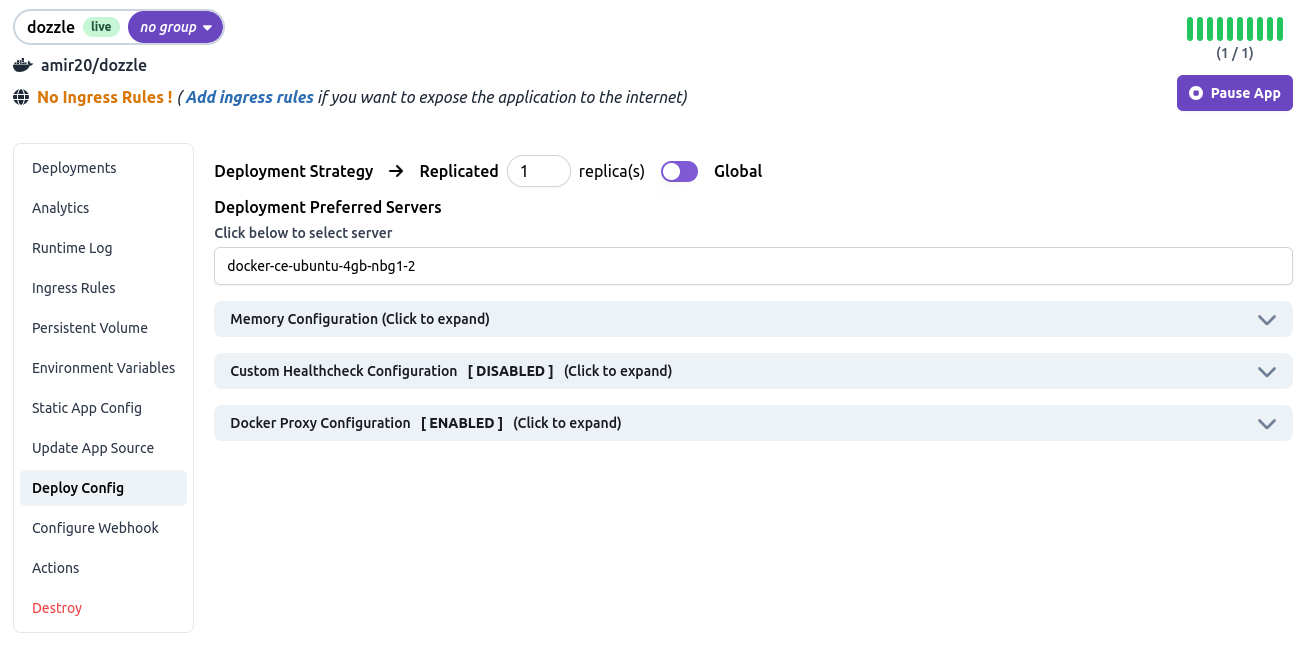
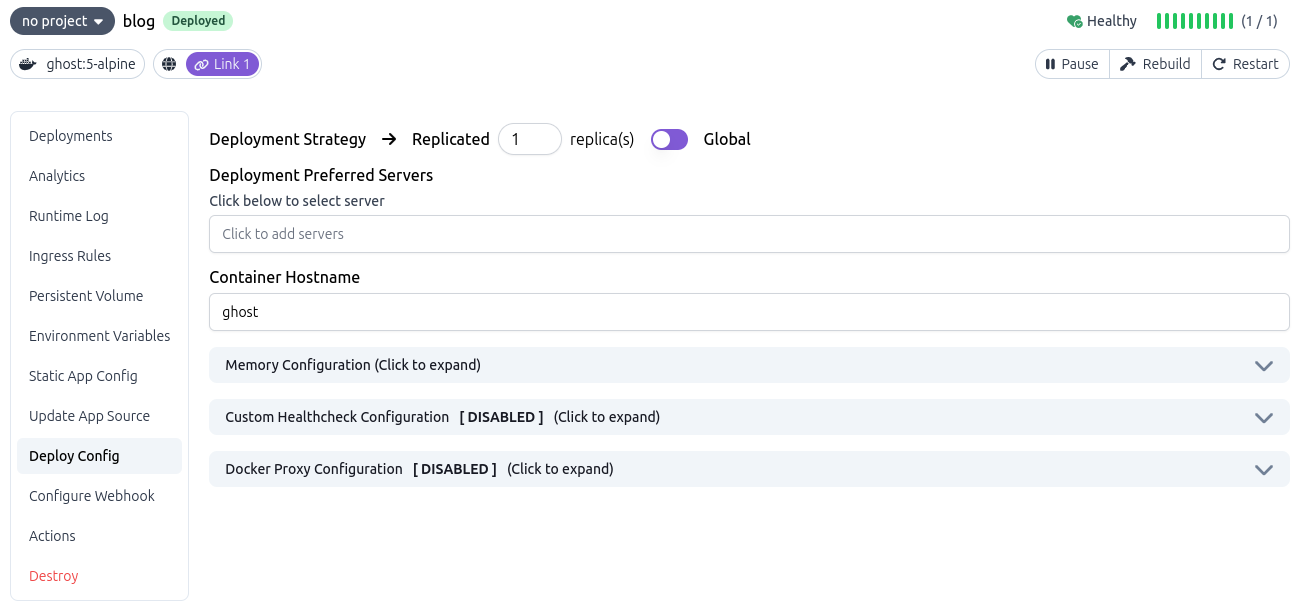
feat: container hostname related docs updated

diff --git a/src/components/navbar.js b/src/components/navbar.js
@@ -9,6 +9,7 @@ export default function Navbar() {
   const [isMobileNavbarOpen, setIsMobileNavbarOpen] = React.useState(false);
   const links = [
     { name: "Docs", href: "/docs" },
+    { name: "App Store", href: "/docs/dashboard/swiftwave_app_store"},
     { name: "Community", href: "http://slack.swiftwave.org/" },
     { name: "Contribute", href: "/docs/contribution_guideline" },
     { name: "Support", href: "/docs/support_us" },

diff --git a/docs/dashboard/application_details/deployment_configuration.md b/docs/dashboard/application_details/deployment_configuration.md
@@ -22,6 +22,9 @@ Currently you can't change the deployment strategy of the application. **Replica
 ### Deployment Preferred Servers
 If you want that your application should be deployed on specific servers, then you can select the servers from the dropdown list.
 
+### Container Hostname
+Usuaully while deploying some service via docker, docker assign a random hostname to your service container. If your deployed application has any requirement fixed hostname, you can utilize this option to set a static hostname inside your container.
+
 ### Memory Configuration
 
 ![Memory Configuration](/assets/2.2.x/application-deployment-memory-configuration.png)

diff --git a/versioned_docs/version-2.2.x/dashboard/application_details/deployment_configuration.md b/versioned_docs/version-2.2.x/dashboard/application_details/deployment_configuration.md
@@ -22,6 +22,9 @@ Currently you can't change the deployment strategy of the application. **Replica
 ### Deployment Preferred Servers
 If you want that your application should be deployed on specific servers, then you can select the servers from the dropdown list.
 
+### Container Hostname
+Usuaully while deploying some service via docker, docker assign a random hostname to your service container. If your deployed application has any requirement fixed hostname, you can utilize this option to set a static hostname inside your container.
+
 ### Memory Configuration
 
 ![Memory Configuration](/assets/2.2.x/application-deployment-memory-configuration.png)
